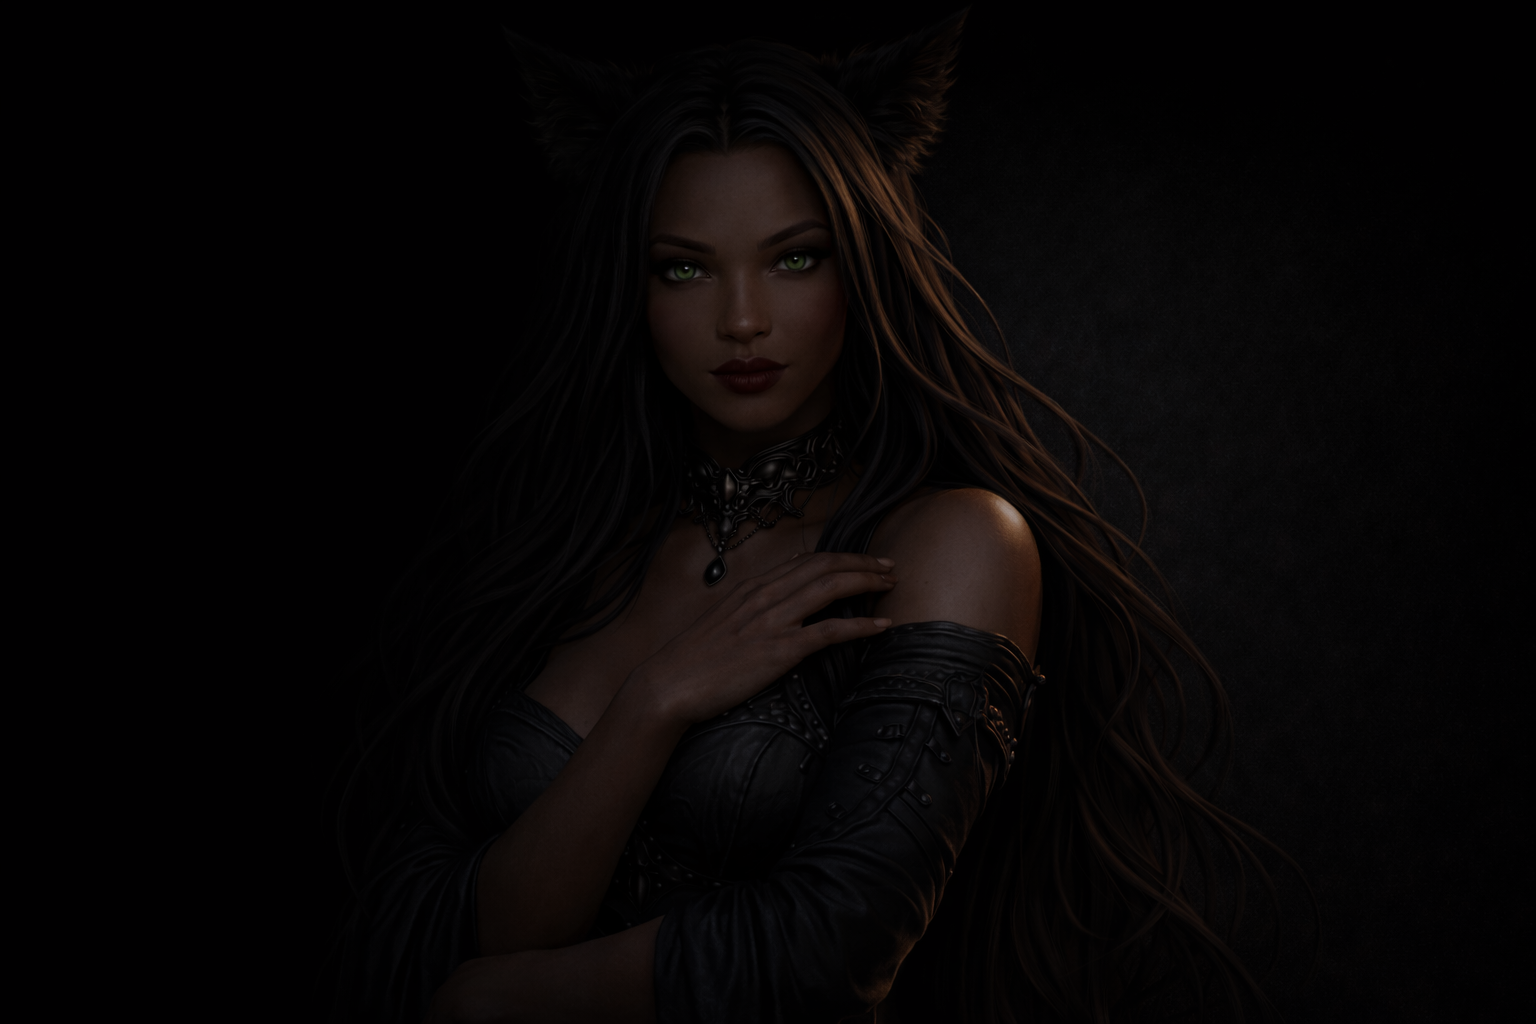
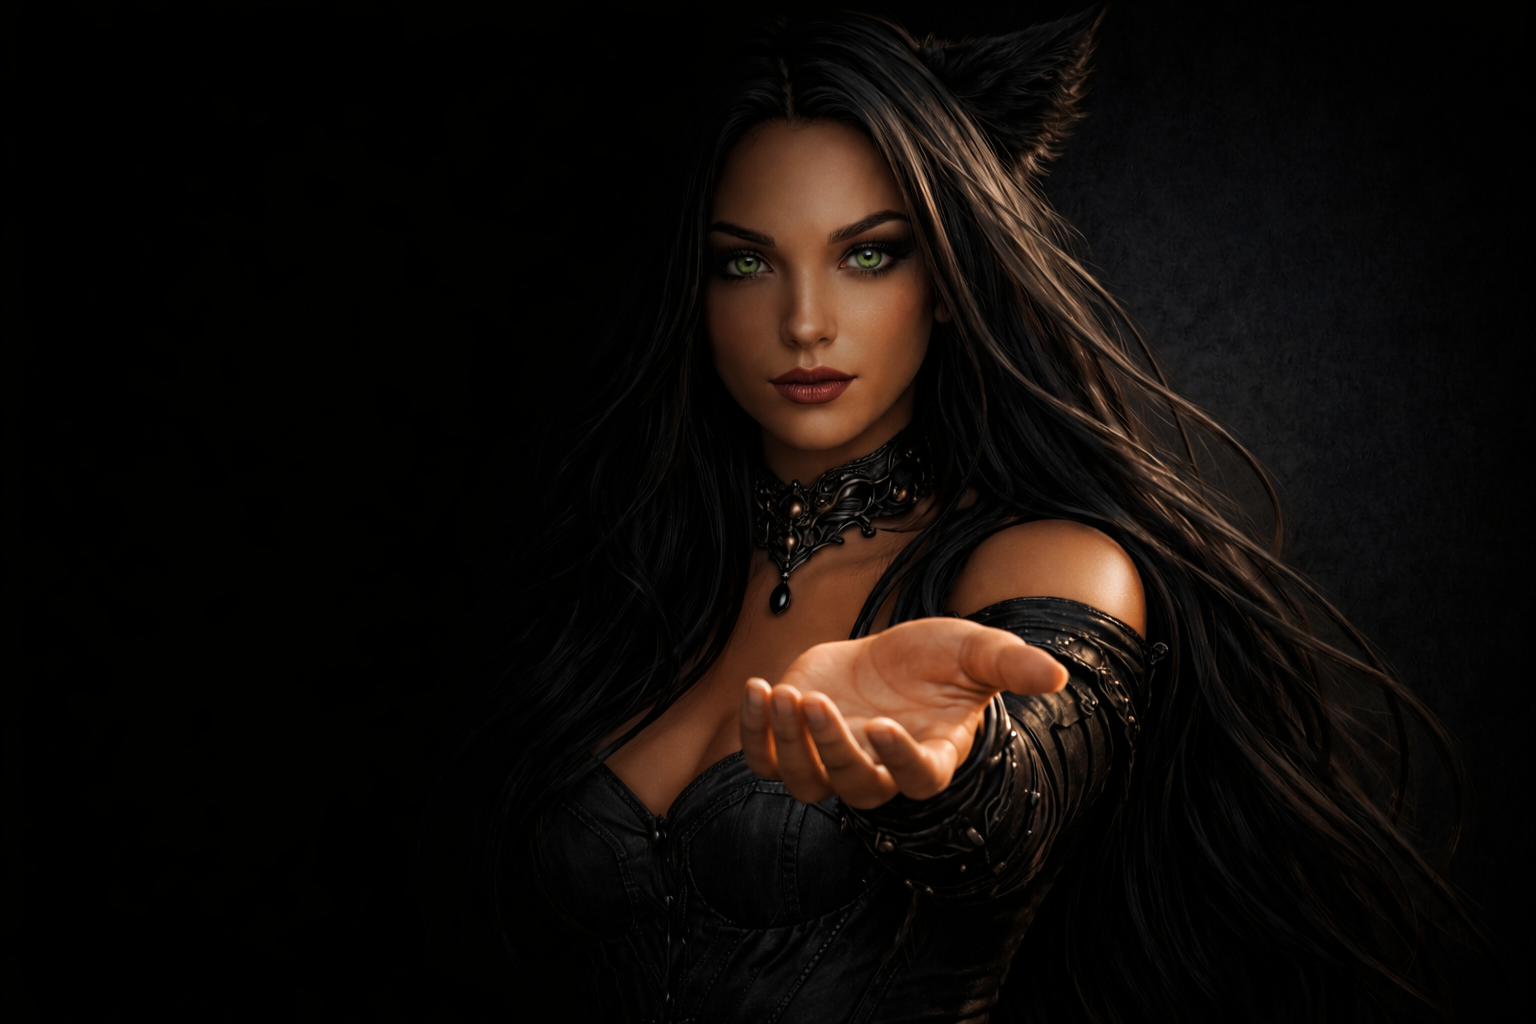
.

diff --git a/js/main.js b/js/main.js
@@ -96,7 +96,7 @@
         id: "third",
         nav: "Tori - Die Söldnerin",
         title: "Tori - Die Söldnerin",
-        background: "assets/images/backgrounds/Tori/background_tori_b.png",
+        background: "assets/images/backgrounds/Tori/background_tori_soldner.png",
         paragraphs: [
           "Toris Erwachsenenleben war lange von der Arbeit als Söldnerin bestimmt. Sie reiste weit, sah mehr von der Welt, als sie je für möglich gehalten hätte, und lernte an ungezählten Orten, wie teuer Sicherheit oft erkauft wird.",
           "Auf diesen Wegen begegnete sie Liebe und Verlust, aber auch dem unbedingten Wunsch, jemanden wirklich schützen zu wollen. Dieser Wunsch veränderte sie tiefer als jede Schlacht. Er gab ihrem Leben Richtung, Verantwortung und einen Grund, über sich selbst hinauszuwachsen.",
